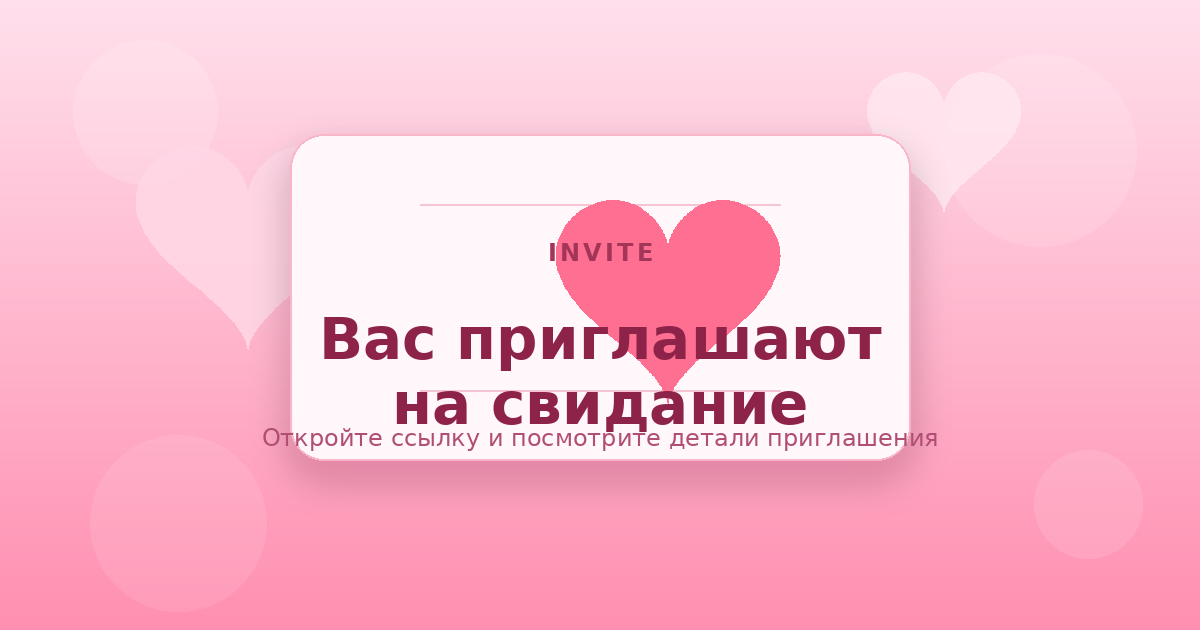
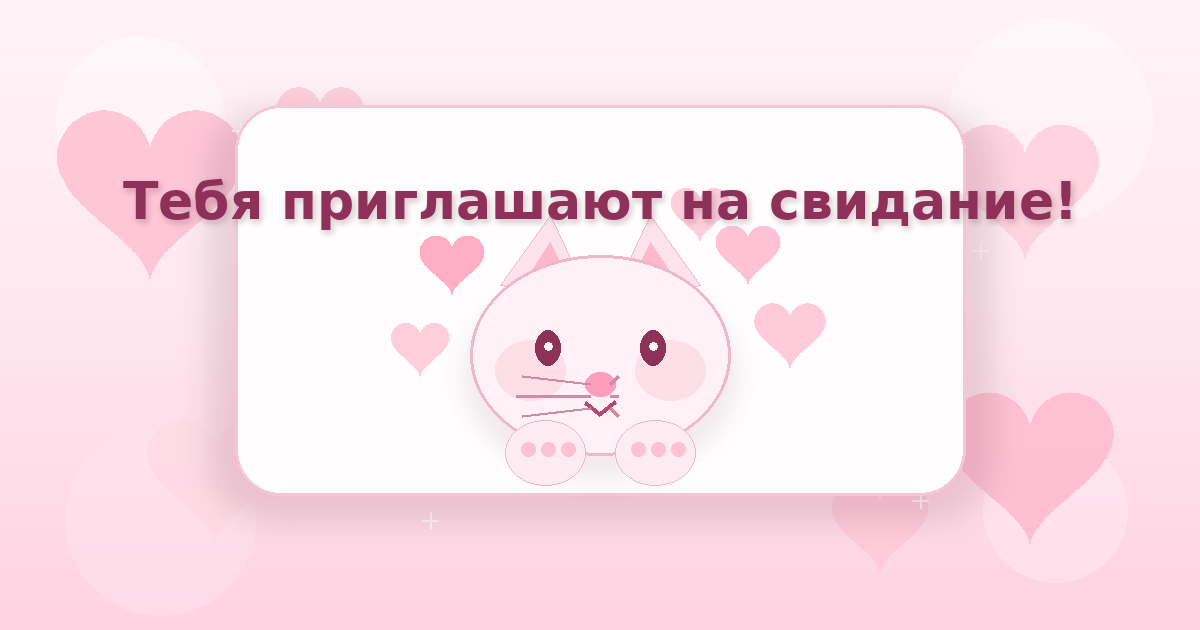
Replace preview envelope with cat

diff --git a/index.html b/index.html
@@ -4,19 +4,19 @@
     <meta charset="UTF-8" />
     <link rel="icon" type="image/svg+xml" href="/favicon.svg" />
     <meta name="viewport" content="width=device-width, initial-scale=1.0" />
-    <title>Приглашение на свидание</title>
+    <title>Тебе приглашение на свидание! Откроешь?</title>
     <meta
       name="description"
-      content="Вас приглашают на свидание. Откройте ссылку и посмотрите детали приглашения."
+      content="Нажми на ссылку и посмотри, что я подготовил."
     />
     <link rel="canonical" href="https://yury-dergachev.github.io/svidanka/" />
     <meta property="og:type" content="website" />
     <meta property="og:url" content="https://yury-dergachev.github.io/svidanka/" />
-    <meta property="og:site_name" content="Приглашение на свидание" />
-    <meta property="og:title" content="Вас приглашают на свидание" />
+    <meta property="og:site_name" content="Тебе приглашение на свидание! Откроешь?" />
+    <meta property="og:title" content="Тебе приглашение на свидание! Откроешь?" />
     <meta
       property="og:description"
-      content="Откройте ссылку и посмотрите детали приглашения."
+      content="Нажми на ссылку и посмотри, что я подготовил."
     />
     <meta
       property="og:image"
@@ -31,10 +31,10 @@
     <meta property="og:image:height" content="630" />
     <meta property="og:locale" content="ru_RU" />
     <meta name="twitter:card" content="summary_large_image" />
-    <meta name="twitter:title" content="Вас приглашают на свидание" />
+    <meta name="twitter:title" content="Тебе приглашение на свидание! Откроешь?" />
     <meta
       name="twitter:description"
-      content="Откройте ссылку и посмотрите детали приглашения."
+      content="Нажми на ссылку и посмотри, что я подготовил."
     />
     <meta
       name="twitter:image"
